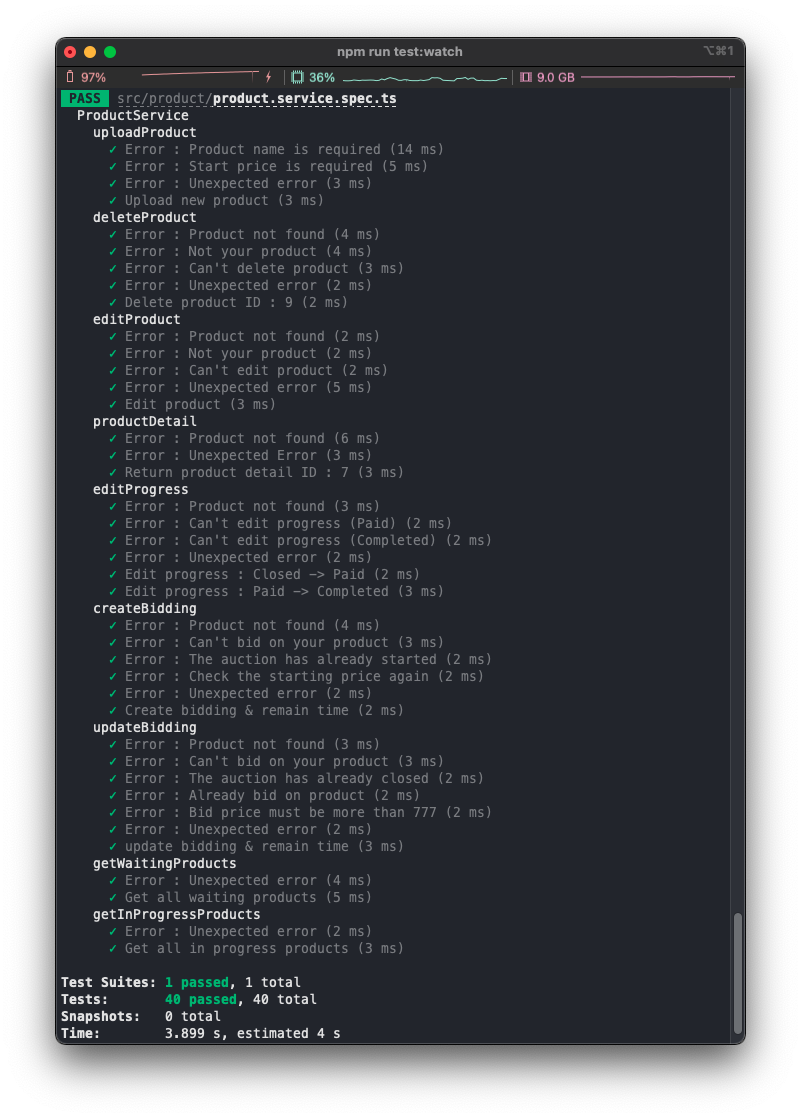
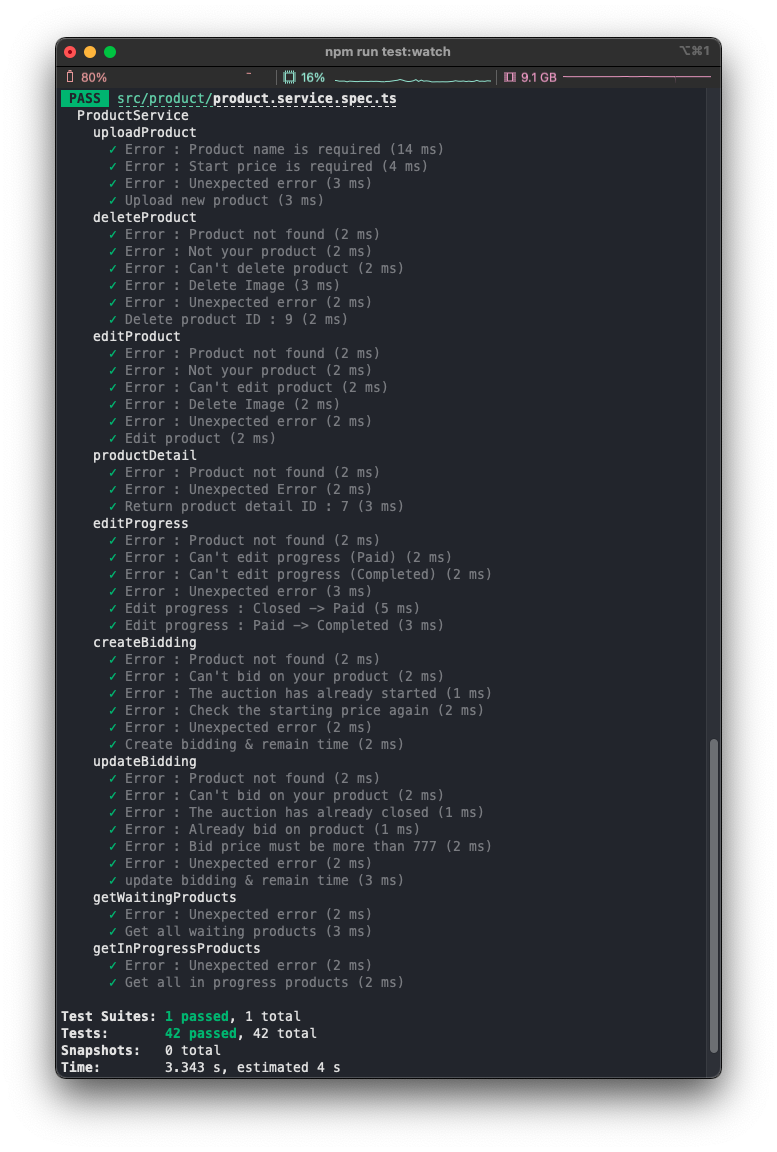
Update README

Changed region(s): [[0.0618, 0.0304, 0.9575, 0.9428], [0.5869, 0.4866, 0.6178, 0.517]]

diff --git a/src/file/file.service.spec.ts b/src/file/file.service.spec.ts
@@ -4,6 +4,7 @@ import { getRepositoryToken } from '@nestjs/typeorm';
 import { S3 } from 'aws-sdk';
 import { Product } from 'src/product/product.entity';
 import { Repository } from 'typeorm';
+import { ReadStream } from 'fs-capacitor';
 import { File } from './file.entity';
 import { FileService } from './file.service';
 
@@ -18,15 +19,15 @@ const mockConfigService = () => ({
   get: jest.fn(),
 });
 
-const mockS3 = () => ({
-  upload: jest.fn(),
+const mockS3 = {
+  upload: jest.fn().mockReturnThis(),
   promise: jest.fn(),
   deleteObject: jest.fn(),
-});
+};
 
 jest.mock('aws-sdk', () => {
   return {
-    S3: jest.fn(() => mockS3()),
+    S3: jest.fn(() => mockS3),
   };
 });
 
@@ -39,6 +40,8 @@ describe('FileService', () => {
   let fileRepo: MockRepo<File>;
   let productRepo: MockRepo<Product>;
   let mockFile: File;
+  let mockProduct: Product;
+  let mockStream: ReadStream;
 
   beforeEach(async () => {
     const moduleRef = await Test.createTestingModule({
@@ -67,10 +70,63 @@ describe('FileService', () => {
     mockFile = new File();
     mockFile.id = 3;
     mockFile.key = 'MockKey';
+
+    mockProduct = new Product();
+    mockProduct.id = 4;
   });
 
   it('Should be defined', () => {
     expect(fileService).toBeDefined();
+  });
+
+  describe('uploadImage', () => {
+    // const uploadImageArgs = {
+    //   mockFilename: 'MockFilename',
+    //   mockMimetype: 'image/png',
+    // };
+    // it('Error : Unexpected error', async () => {
+    //   productRepo.findOne.mockRejectedValue(new Error());
+    //   const result = await fileService.uploadImage(
+    //     mockStream,
+    //     uploadImageArgs.mockFilename,
+    //     uploadImageArgs.mockMimetype,
+    //     mockProduct.id,
+    //   );
+    //   expect(result).toEqual({
+    //     error: 'Unexpected error',
+    //   });
+    // });
+    // it('Upload image in S3', async () => {
+    //   productRepo.findOne.mockResolvedValue(mockProduct);
+    //   const mockedS3 = new S3({
+    //     accessKeyId: 'MOCK_ACCESS_ID',
+    //     secretAccessKey: 'MOCK_SECRET_KEY',
+    //   });
+    //   const uploadOutput = await mockedS3.upload({
+    //     Bucket: 'mockBucket',
+    //     Body: mockStream,
+    //     Key: uploadImageArgs.mockFilename,
+    //     ContentType: uploadImageArgs.mockMimetype,
+    //   });
+    //   fileRepo.create.mockReturnValue({
+    //     product: mockProduct,
+    //     url: uploadOutput.Location,
+    //     key: uploadOutput.Key,
+    //     filename: uploadImageArgs.mockFilename,
+    //   });
+    //   const result = await fileService.uploadImage(
+    //     mockStream,
+    //     uploadImageArgs.mockFilename,
+    //     uploadImageArgs.mockMimetype,
+    //     mockProduct.id,
+    //   );
+    //   expect(result).toEqual({
+    //     ok: true,
+    //   });
+    //   expect(fileRepo.create).toBeCalledTimes(1);
+    //   expect(fileRepo.save).toBeCalledTimes(1);
+    //   expect(productRepo.save).toBeCalledTimes(1);
+    // });
   });
 
   describe('deleteImage', () => {

diff --git a/README.md b/README.md
@@ -1,123 +1,135 @@
-# Fresh Meat
+# Fresh meat
+
+팔고 싶은 상품을 경매로 사고팔 수 있도록 중개해 주는 서비스
 
 ---
 
-## Table of contents
+## Table of Contents
 
-- [General info](#general-info)
-- [Structure](#structure)
-- [Todo](#todo)
-- [Test](#test)
+- [General Info](#general-Info)
+- [Schema](#schema)
+  - [User](#user)
+  - [Product](#product)
+  - [File](#file)
+- [Unit Test](#unit-test)
+  - [User Service](#user-service)
+  - [Product Service](#product-service)
+  - [File Service](#file-service)
+  - [Coverage](#coverage)
 - [Memo](#memo)
 
 ---
 
-## General info
+## General Info
 
-<a href="https://nestjs.com/" target="_blank">NestJS</a>, <a href="https://graphql.org/" target="_blank">GraphQL</a>, <a href="https://typeorm.io/#/" target="_blank">TypeORM</a>, <a href="https://www.postgresql.org/" target="_blank">PostgreSQL</a> and <a href="https://redis.io/" target="_blank">Redis</a>
-
----
-
-## Structure
-
-- **User**
-
-  - Email or Phone number
-  - Password
-    <br>
-
-- **Product**
-  - Seller
-  - Bidder
-  - Start price
-  - Bid price
-  - Remaining time
-  - Progress (enum)
+프레임워크로 <a href="https://nestjs.com/" target="_blank">NestJS</a>를 사용해서 <a href="https://graphql.org/" target="_blank">GraphQL</a> API를 구현했습니다. 데이터베이스로 <a href="https://www.postgresql.org/" target="_blank">PostgreSQL</a>을 사용하고 ORM은 <a href="https://typeorm.io/#/" target="_blank">TypeORM</a>을 사용했습니다. Session Storage로 사용하는 <a href="https://redis.io/" target="_blank">Redis</a>에 로그인한 사용자의 정보를 저장합니다.
 
 ---
 
-## Todo
+## Schema
 
-- [ ] How many people participated in the auction
-- [ ] Improve editProduct (Image)
-- [ ] Improve deleteProduct (Delete image on S3)
+하나의 `User`는 여러 개의 `sellingProducts`와 `1:N` 관계이고, `biddingProducts`와도 마찬가지로 `1:N` 관계입니다. `Product` 경매(거래) 진행 상태를 나타내는 `Progress`는 `Waiting`, `InProgress`, `Closed`, `Paid`, 그리고 `Completed` 중 하나입니다. 또한 `Product`는 하나의 이미지로써 `File`와 1:1 관계입니다.
 
-- **User Module**
+### User
 
-  - [x] Create User
-  - [x] Login
-  - [x] User Detail
-  - [x] Update User
-  - [x] Delete User
-        <br>
+```User Entity
+type User {
+  id: Float!
 
-- **Product Module**
-  - [x] Upload Product
-  - [x] Delete Product
-  - [x] Edit Product
-  - [x] Bid on Product
-    - [x] Create Bidding
-    - [x] Update Bidding
-    - [x] Finish Bidding
-  - [x] Product Detail
-  - [x] Edit Progress
-    - Waiting
-    - InProgress
-    - Closed (Waiting for payment)
-    - Paid (Waiting for confirmation)
-    - Completed
-  - [x] Get Waiting Products
-  - [x] Get InProgress Products
+  createdAt: DateTime!
+
+  updatedAt: DateTime!
+
+  username: String!
+
+  email: String!
+
+  password: String!
+
+  // OneToMany
+  sellingProducts: [Product!]
+
+  // OneToMany
+  biddingProducts: [Product!]
+}
+
+```
+
+### Product
+
+```Product Entity
+type ProductObjectType {
+  id: Float!
+
+  createdAt: DateTime!
+
+  updatedAt: DateTime!
+
+  productName: String!
+
+  description: String
+
+  // OneToOne
+  picture: File
+
+  // ManyToOne
+  seller: User!
+
+  // ManyToOne
+  bidder: User
+
+  startPrice: Float!
+
+  bidPrice: Float
+
+  remainingTime: DateTime
+
+  progress: Progress!
+}
+```
+
+### File
+
+```File Entity
+type FileObjectType {
+  id: Float!
+
+  createdAt: DateTime!
+
+  updatedAt: DateTime!
+
+  // OneToOne
+  product: Product!
+
+  url: String!
+
+  key: String!
+
+  fileName: String!
+}
+```
 
 ---
 
-## Test
+## Unit Test
 
-**To run test this project:**
+유닛 테스트를 위해 자바스크립트 테스팅 프레임워크인 <a href="https://jestjs.io/" target="_blank">Jest</a>를 사용했습니다.
 
-```
-// Unit Test
+### User Service
 
-$ npm run test
-```
+<img src="./images/user-service-unit-test.png" />
 
-</br>
-<div style="text-align:center">
-  <img src="./images/user-service-unit-test-3.png" />
-</div>
-<div style="text-align:center">
-  <span style="font-weight:bold">
-    User Service
-  </span>
-</div>
-</br>
-  
-</br>
-<div style="text-align:center">
-  <img src="./images/product-service-unit-test.png" />
-</div>
-<div style="text-align:center">
-  <span style="font-weight:bold">
-    Product Service
-  </span>
-</div>
-</br>
+### Product Service
 
-```
-// Unit Test Coverage
+<img src="./images/product-service-unit-test.png" />
 
-$ npm run test:cov
-```
+### File Service
 
-</br>
-<div style="text-align:center">
-  <img src="./images/unit-test-coverage-3.png" />
-</div>
-<div style="text-align:center">
-  <span style="font-weight:bold">
-    Unit Test Coverage
-  </span>
-</div>
+<img src="./images/file-service-unit-test.png" />
+
+### Coverage
+
+<img src="./images/unit-test-coverage.png" />
 
 ---
 
